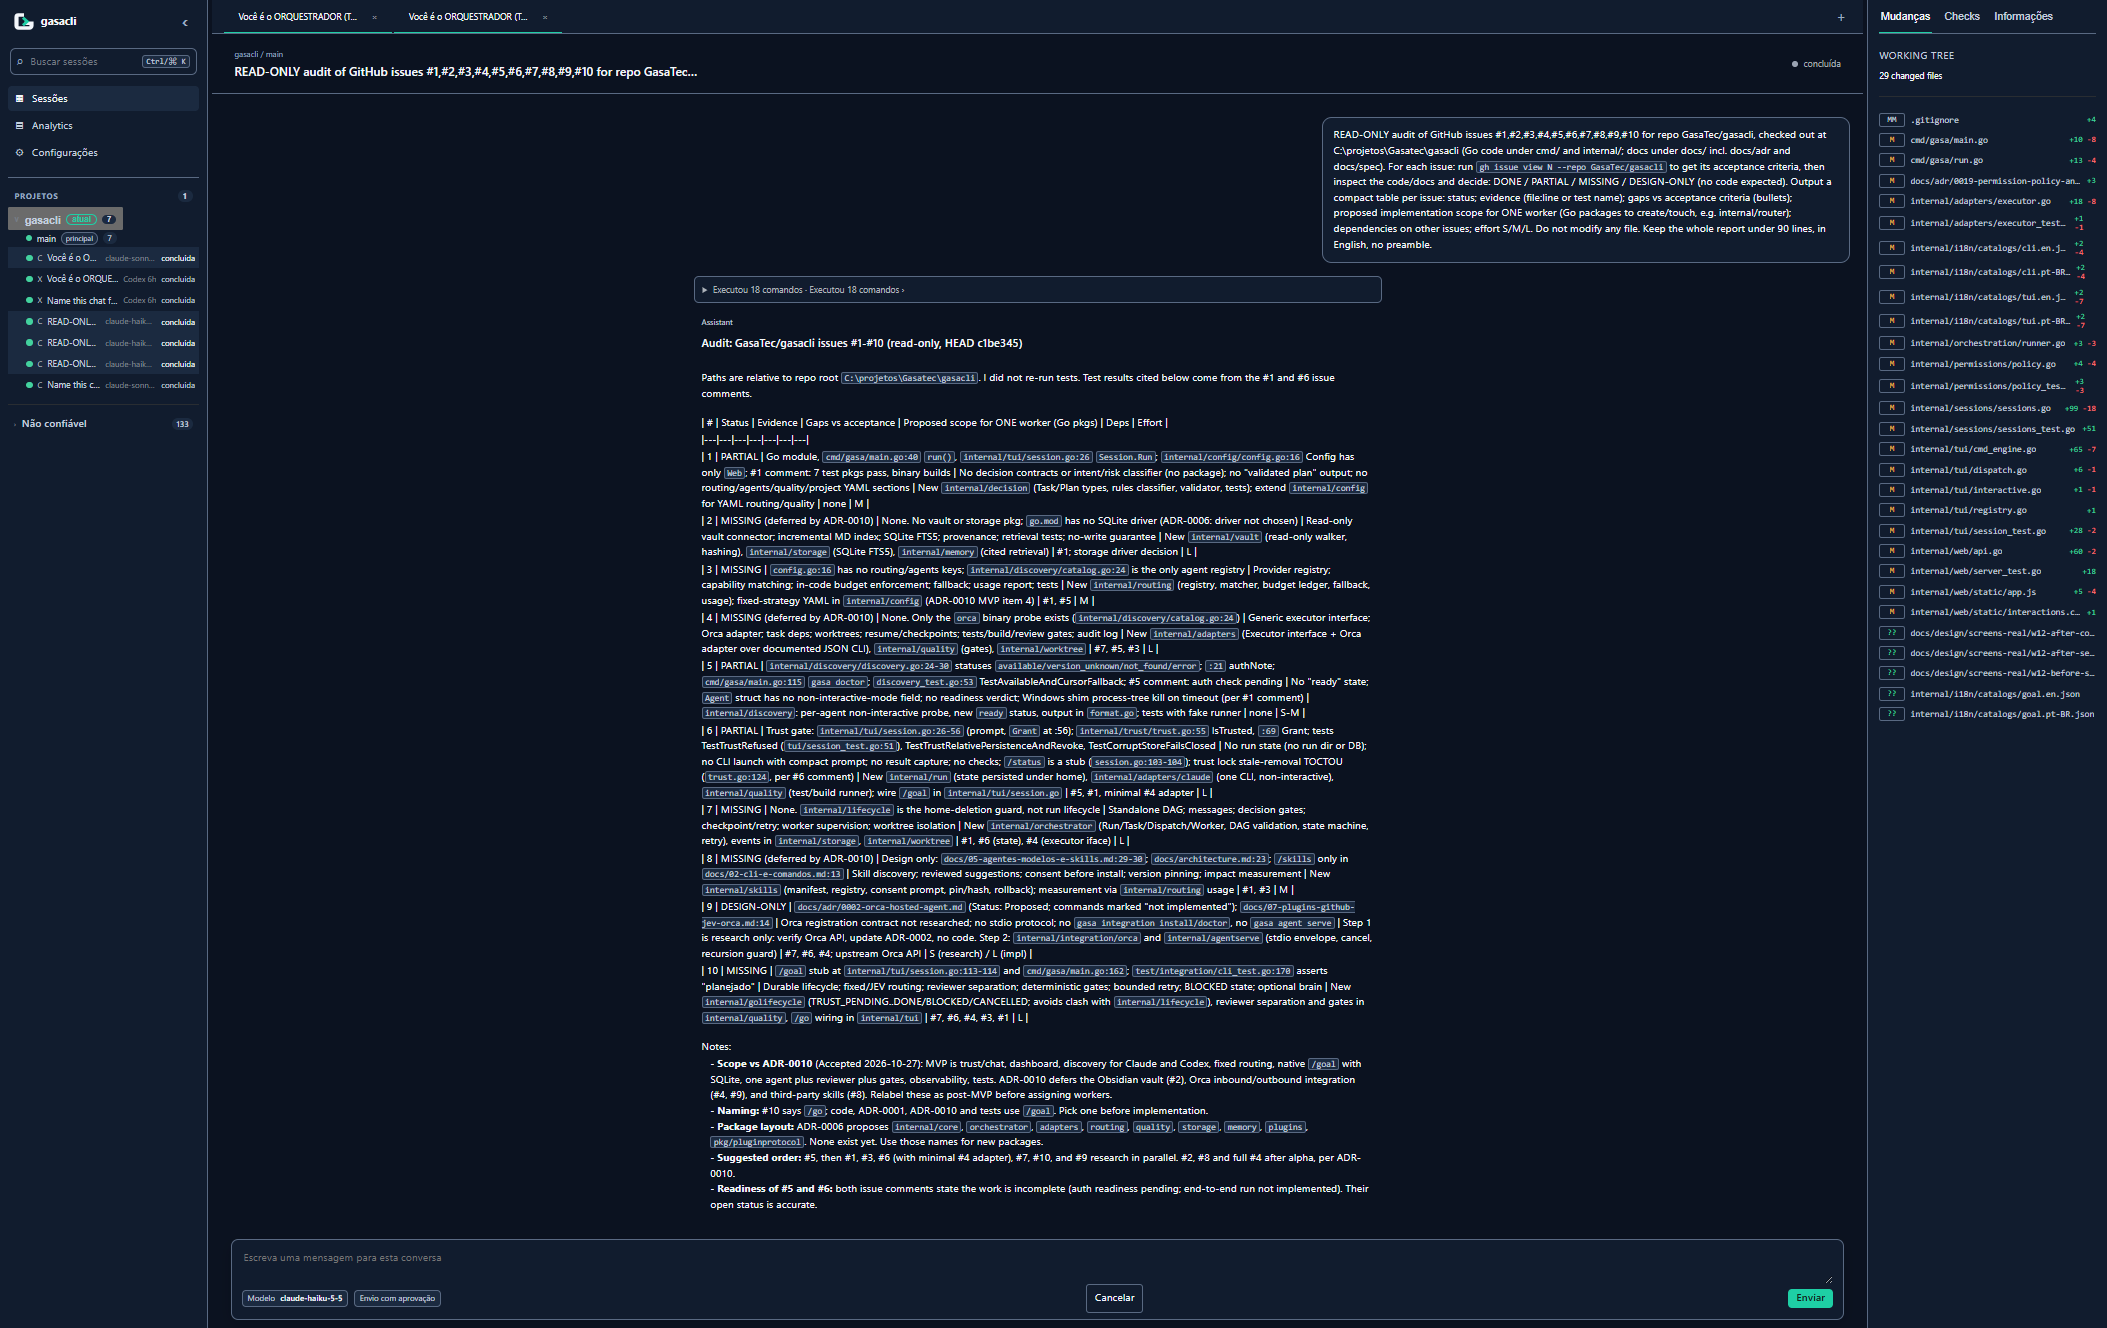
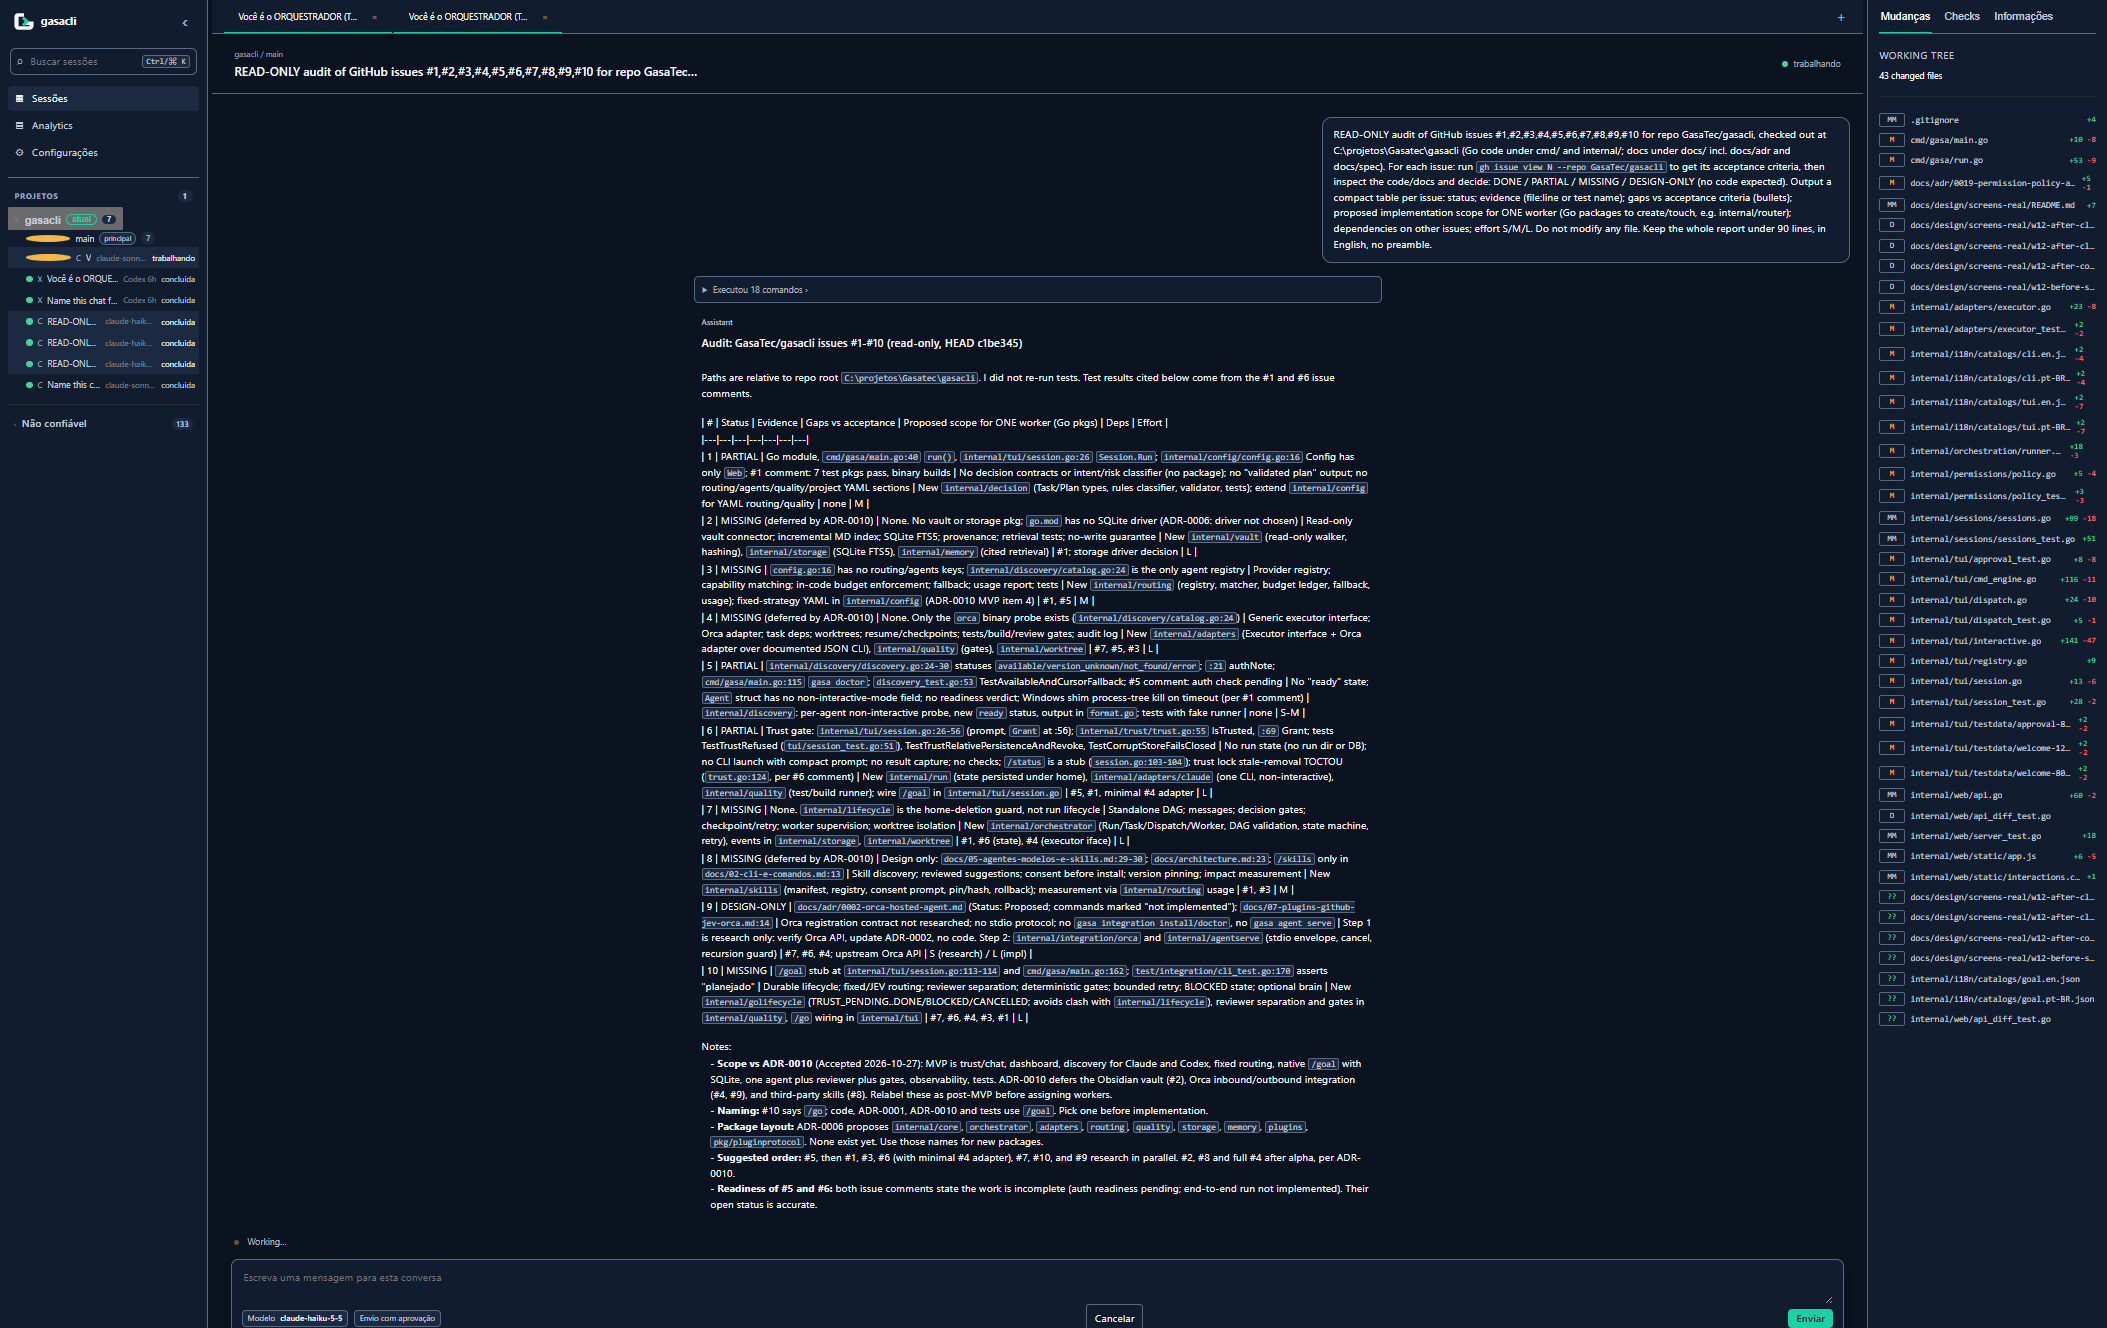
docs: refresh W12 dashboard browser evidence

diff --git a/docs/design/screens-real/README.md b/docs/design/screens-real/README.md
@@ -42,6 +42,6 @@ The SSE root cause was the server-wide `WriteTimeout` expiring the long-lived ev
 ## W12 transcript and diff polish (2026-10-28)
 
 - `w12-before-session-chat.png` records the real dashboard before the update; it showed literal Codex wrappers and the raw diff-stat blob.
-- `w12-after-codex-session.png` shows the real Codex transcript with wrappers hidden inside collapsed tool rows, a centered message column, and the file list without the diff-stat blob. This local session had 849 messages; the initial 100-message page reached its first rendered message in 341 ms.
+- `w12-after-codex-session.png` shows the real Codex transcript with wrappers hidden inside collapsed tool rows, a centered message column, and the file list without the diff-stat blob. This local session had 849 messages; loading the initial 100-message page took 1.85 s to first rendered content, and a repeat open took 341 ms.
 - `w12-after-claude-session.png` shows a real Claude transcript with one collapsed `tool_use` row and no raw wrapper text. `w12-after-claude-light.png` shows that transcript in the light theme.
 - Each W12 PNG is under 600 KB. The embedded Orca page remained 2633×1660 after `window.resizeTo(1280,900)`; 1280 px, 900 px, and 390 px viewport reflow was not verified.
